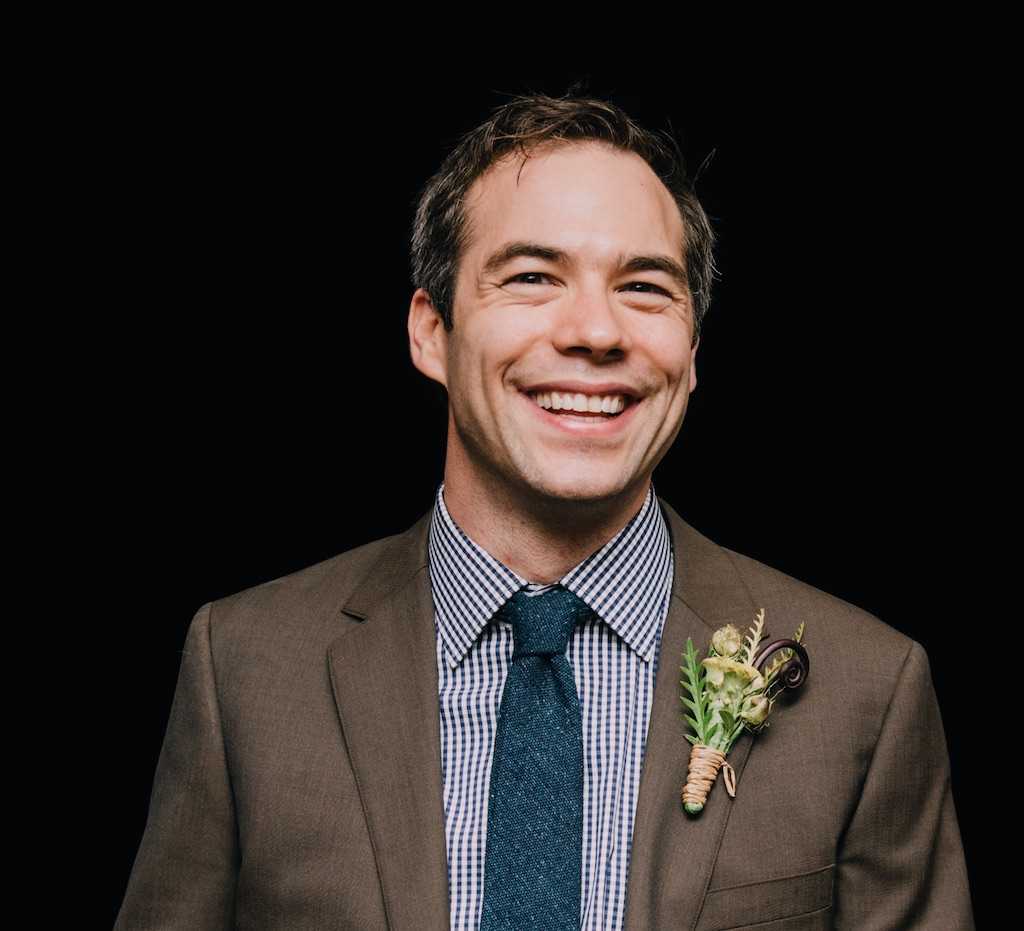
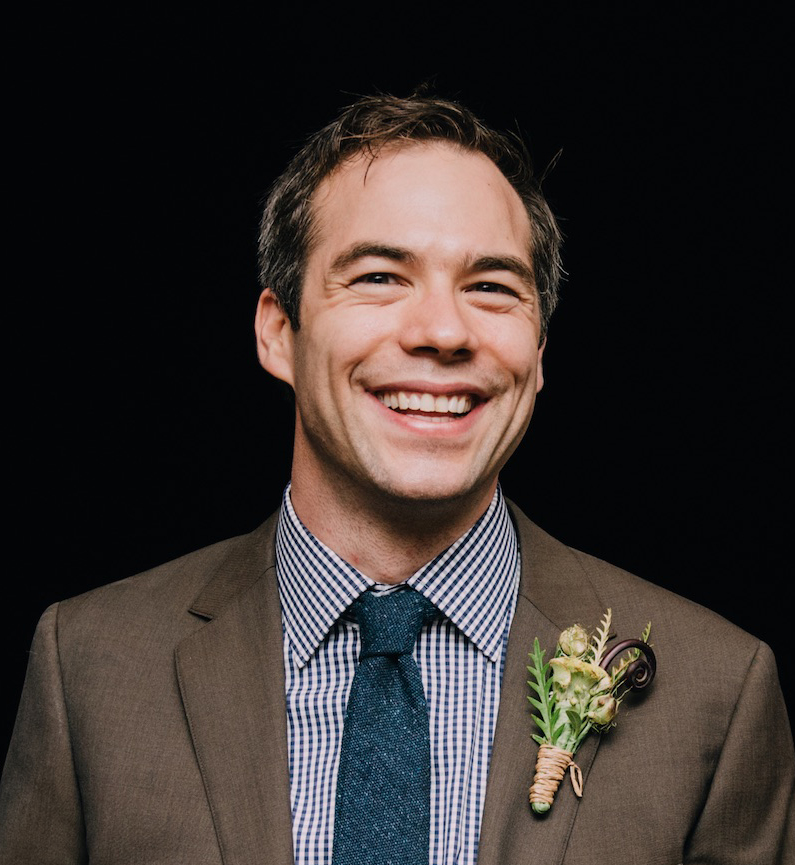
Update aspect ratios and dimensions of headshots

diff --git a/docs/members/index.html b/docs/members/index.html
@@ -244,6 +244,10 @@
 
   
 
+  
+
+  
+
 </ul>
 
 
@@ -461,6 +465,46 @@
   </div>
   
 
+  
+
+  
+  <div class="row gutters">
+    <div class="col col-3">
+      <img src=img/owen-madin.jpg>
+    </div>
+    <div class="col col-9">
+      <h4><b>Owen Madin</b> (Researcher)
+              
+      </h4>
+      <p>
+        Graduate Student, University of Colorado, Boulder<br>
+        <i>Bayesian model and parameter sampling with reversible jump Monte Carlo and surrogate models</i><br>
+        <a href=https://www.colorado.edu/lab/shirtsgroup/owen-madin>https://www.colorado.edu/lab/shirtsgroup/owen-madin</a><br>
+         ORCID: <a href="https://orcid.org/0000-0002-6736-3442">0000-0002-6736-3442</a> 
+        
+      </p>
+    </div>
+  </div>
+  
+
+  
+  <div class="row gutters">
+    <div class="col col-3">
+      <img src=img/simon-boothroyd.jpg>
+    </div>
+    <div class="col col-9">
+      <h4><b>Simon Boothroyd</b> (Researcher)
+              
+      </h4>
+      <p>
+        XtalPi/Open Force Field Consortium Distinguished Postdoctoral Scholar, Memorial Sloan Kettering Cancer Center<br>
+        <i>Automated benchmarking and parameterization by physical property and free energy calculations</i><br>
+        <a href=https://www.researchgate.net/profile/Simon_Boothroyd>https://www.researchgate.net/profile/Simon_Boothroyd</a><br>
+         ORCID: <a href="https://orcid.org/0000-0002-3456-1872">0000-0002-3456-1872</a> 
+         | <a href="https://scholar.google.co.uk/citations?user=a_qDLKgAAAAJ">Google Scholar</a> 
+      </p>
+    </div>
+  </div>
   
 
   
